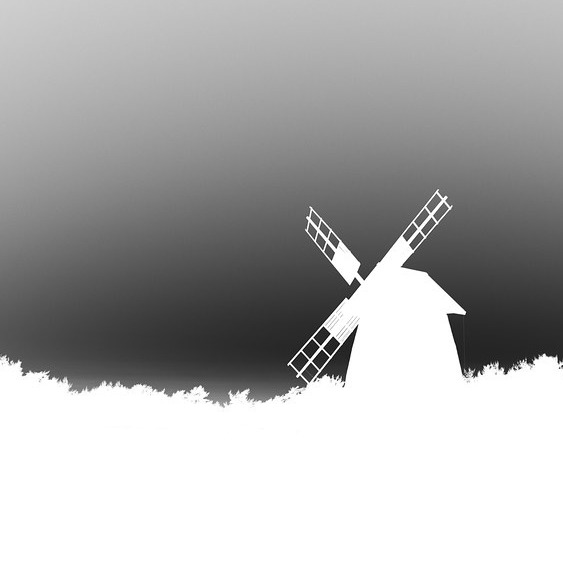
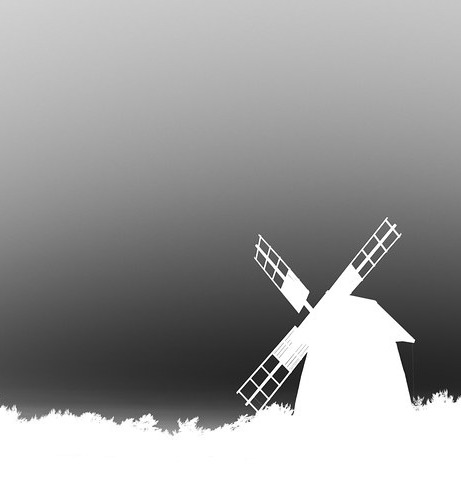
Wire candle+jellyfish to bakes with live motion (flicker, pulse/bob); windmill stays procedural pending proper blade/hub iteration

diff --git a/scenes-bake-windmill.js b/scenes-bake-windmill.js
@@ -1,1 +1,1 @@
[2 lines of base64/hex data omitted]

diff --git a/scenes-4.js b/scenes-4.js
@@ -2,7 +2,7 @@
 'use strict';
 (function (root) {
   const H = root.__H, add = root.__addScene;
-  const { TAU, clamp, lerp, ss, S, B, vnoise, fbm, sdC, sdE, sdBox, sdSeg, shade, glow, over, drift, hash } = H;
+  const { TAU, clamp, lerp, ss, S, B, vnoise, fbm, sdC, sdE, sdBox, sdSeg, shade, glow, over, drift, hash, getBake, sampleBake } = H;
   const tri = (qx, qy, ax, ay, bx, by, cx, cy, nrm) => {
     const e = (x0, y0, x1, y1) => (qx - x0) * (y1 - y0) - (qy - y0) * (x1 - x0);
     return Math.max(e(ax, ay, bx, by), e(bx, by, cx, cy), e(cx, cy, ax, ay)) / nrm;
@@ -28,52 +28,22 @@
   });
 
   add('jellyfish', '#06182e', ['#a8e0ff', '#e8f6ff'], 12, (x, y, t, cols, rows) => {
+    const bk = getBake('jellyfish');
     const X = (x - cols / 2) / 1.06, Y = y, u = rows;
-    const pulse = B(t, 2), jx = S(t, 1) * u * 0.04, jy = u * 0.32 + S(t, 2, 0.2) * u * 0.02;
     let res = 0;
     const parts = drift(X, Y, t, { scale: 0.5, thresh: 0.88, gain: 0.35, speed: 1.5, windY: -2 });
     if (parts > 0) res = [parts, 0];
-    if (Math.abs(X - jx) < u * 0.34 && Y > jy - u * 0.22 && Y < u * 0.95) {
-      const brx = u * (0.16 + pulse * 0.018), bry = u * (0.145 - pulse * 0.012);
-      const sdBell = (px, py) => Math.max(sdE(px, py, jx, jy, brx, bry), (py - jy) / 2);
-      const dB = sdBell(X, Y);
-      if (dB < 1) {
-        const sh = shade(sdBell, X, Y, -0.55, -0.7);
-        if (sh > 0) {
-          const ribA = Math.atan2(Y - jy, (X - jx) * (bry / brx));
-          const rib = 0.80 + 0.20 * Math.abs(Math.sin(ribA * 6));
-          res = over(res, [clamp(sh * rib * 1.15, 0, 1), 1]);
-        }
+    if (bk) {
+      const bob = S(t, 2, 0.2) * u * 0.015;
+      const pulse = 1 + 0.022 * B(t, 2);
+      const fw = u * 0.26 * pulse, fh = u * 0.40 * pulse;
+      const cxc = S(t, 1) * u * 0.03, cyc = u * 0.52 + bob;
+      const dx = X - cxc, dy = Y - cyc;
+      if (Math.abs(dx) <= fw && Math.abs(dy) <= fh) {
+        const sx = dx / (fw * 2) + 0.5, sy = dy / (fh * 2) + 0.5;
+        const v0 = sampleBake(bk, sx * (bk.w - 1), sy * (bk.h - 1));
+        if (v0 > 0.03) res = over(res, [clamp(v0, 0, 1), sy < 0.34 ? 1 : 0]);
       }
-      const sdArms = (px, py) => {
-        let d = 1e9;
-        for (let k = 0; k < 4; k++) {
-          const ax = jx - brx * 0.55 + k * brx * 0.36;
-          let x0 = ax, y0 = jy + bry * 0.15;
-          for (let s = 0; s < 4; s++) {
-            const x1 = ax + S(t, 2, k * 0.6 + s * 0.35) * u * 0.02 * (s + 1) * 0.5, y1 = y0 + u * 0.030;
-            d = Math.min(d, sdSeg(px, py, x0, y0, x1, y1) - u * 0.008);
-            x0 = x1; y0 = y1;
-          }
-        }
-        for (let k = 0; k < 5; k++) {
-          const ax = jx - brx * 0.85 + k * brx * 0.42;
-          let x0 = ax, y0 = jy + bry * 0.1;
-          for (let s = 0; s < 6; s++) {
-            const x1 = ax + S(t, 1.6, k * 0.9 + s * 0.3) * u * 0.028 * (s + 1) * 0.45, y1 = y0 + u * 0.042;
-            d = Math.min(d, sdSeg(px, py, x0, y0, x1, y1) - u * 0.0032);
-            x0 = x1; y0 = y1;
-          }
-        }
-        return d;
-      };
-      const dA = sdArms(X, Y);
-      if (dA < 0.8) {
-        const sh = shade(sdArms, X, Y, -0.5, -0.7);
-        if (sh > 0) res = over(res, [sh * 0.85, 0]);
-      }
-      const g = glow(dB, u * 0.05) * 0.25;
-      if (dB > 0 && g > 0.05) res = over(res, [g, 1, 0.7]);
     }
     return res;
   });
@@ -234,4 +204,5 @@
     }
     return res;
   });
+
 })(typeof window !== 'undefined' ? window : globalThis);

diff --git a/scenes-2.js b/scenes-2.js
@@ -2,7 +2,7 @@
 'use strict';
 (function (root) {
   const H = root.__H, add = root.__addScene;
-  const { TAU, clamp, lerp, ss, S, B, vnoise, fbm, sdC, sdE, sdBox, sdSeg, sdVesica, shade, glow, over, drift, waveField, hash } = H;
+  const { TAU, clamp, lerp, ss, S, B, vnoise, fbm, sdC, sdE, sdBox, sdSeg, sdVesica, shade, glow, over, drift, waveField, hash, getBake, sampleBake } = H;
   const flame = (px, py, fx, fy, w, hgt, t, seed) => {
     const wob = S(t, 3, seed) * w * 0.22 + (vnoise(t * 9 + seed, seed * 3) - 0.5) * w * 0.3;
     const bul = sdE(px, py, fx + wob * 0.3, fy - hgt * 0.22, w * (0.62 + 0.10 * S(t, 4, seed)), hgt * 0.30);
@@ -11,27 +11,26 @@
   };
 
   add('candle', '#160d08', ['#ffc46b', '#9a7852'], 10, (x, y, t, cols, rows) => {
+    const bk = getBake('candle');
     const X = (x - cols / 2) / 1.06, Y = y, u = rows;
-    const fx = 0, fy = u * 0.42 + S(t, 3) * u * 0.003;
-    const g = glow(sdC(X, Y, fx, fy - u * 0.05, 0), u * 0.34) * 0.55;
-    let res = g > 0.04 ? [g, 0] : 0;
-    if (Y > u * 0.40 && Y < u * 0.95 && Math.abs(X) < u * 0.16) {
-      const sdCandle = (px, py) => Math.min(
-        sdBox(px, py, 0, u * 0.68, u * 0.075, u * 0.20),
-        sdE(px, py, 0, u * 0.48, u * 0.075, u * 0.018),
-        sdE(px - u * 0.05, py - u * 0.53, 0, 0, u * 0.022, u * 0.035));
-      const sh = shade(sdCandle, X, Y, -0.3, -0.9);
-      if (sh > 0) res = over(res, [sh * (0.55 + 0.45 * clamp(g * 2, 0, 1)), 1]);
-      const wick = sdSeg(X, Y, 0, u * 0.475, 0, fy + u * 0.012) - u * 0.004;
-      if (wick < 0) res = over(res, [0.3, 1]);
-    }
-    const df = flame(X, Y, fx, fy, u * 0.045, u * 0.11, t, 0.3);
-    if (df < 0.8) {
-      const v = ss(0.5, -1.2, df);
-      if (v > 0) res = over(res, [clamp(v * 1.15, 0, 1), 0]);
-    }
-    return res;
+    const amb = () => { const a = drift(X, Y, t, { gain: 0.10, thresh: 0.95, speed: 1.6 }); return a ? [a, 0, 0.5] : 0; };
+    if (!bk) return amb();
+    // flame flicker: lateral wobble weighted to the flame (upper bake), brightness breathing
+    const wob = S(t, 3) * 0.008 + (vnoise(t * 7, 3.1) - 0.5) * 0.012;
+    const flick = 0.90 + 0.10 * S(t, 5) + 0.06 * (vnoise(t * 11, 7.7) - 0.5);
+    const fw = u * 0.34, fh = u * 0.46, cyc = u * 0.50;
+    const dx = X, dy = Y - cyc;
+    if (Math.abs(dx) > fw || Math.abs(dy) > fh) return amb();
+    let sx = dx / (fw * 2) + 0.5 + wob * (1 - 2 * (dy / (fh * 2) + 0.5)) * -2.0;
+    const sy = dy / (fh * 2) + 0.5;
+    if (sx < 0 || sx > 1) return amb();
+    const v0 = sampleBake(bk, sx * (bk.w - 1), sy * (bk.h - 1));
+    const flame = sy < 0.52;
+    const v = clamp(v0 * (flame ? flick : 0.95 + 0.05 * S(t, 2)), 0, 1);
+    if (v <= 0.02) return amb();
+    return [v, flame ? 0 : 1];
   });
+
 
   add('campfire', '#120b06', ['#ffb04a', '#c9b8a8'], 9, (x, y, t, cols, rows) => {
     const X = (x - cols / 2) / 1.06, Y = y, u = rows;
